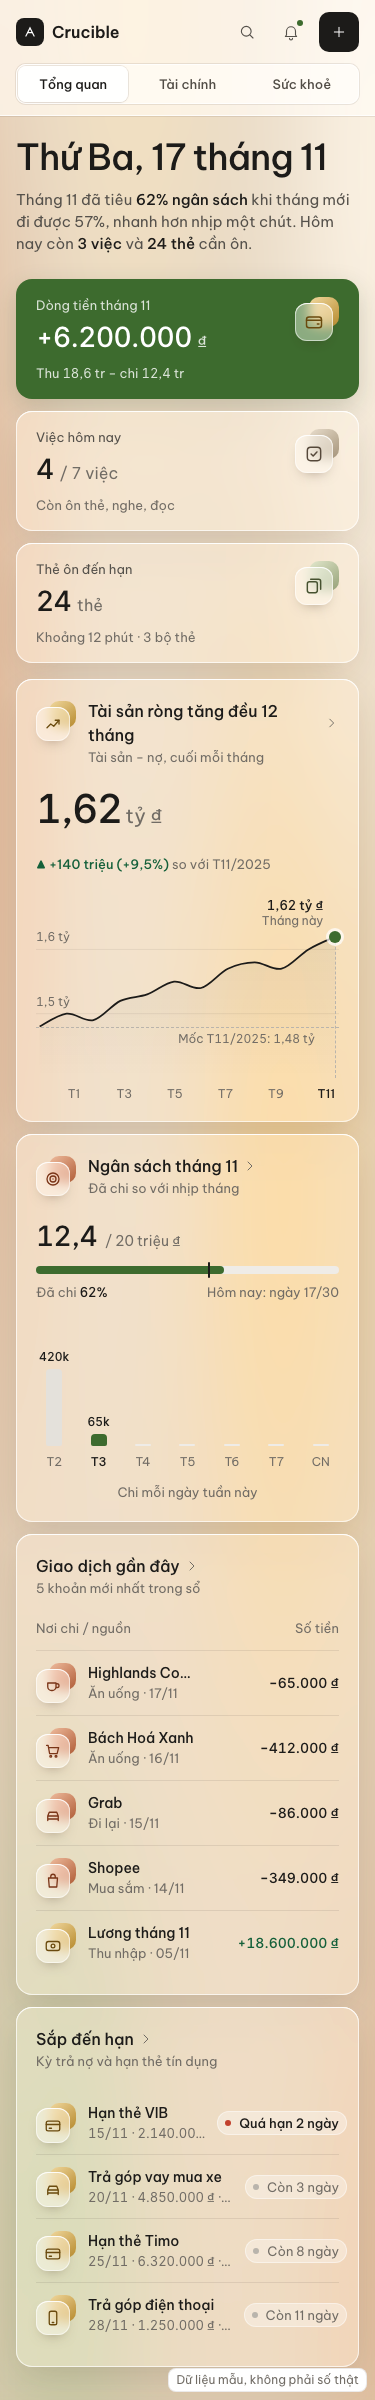
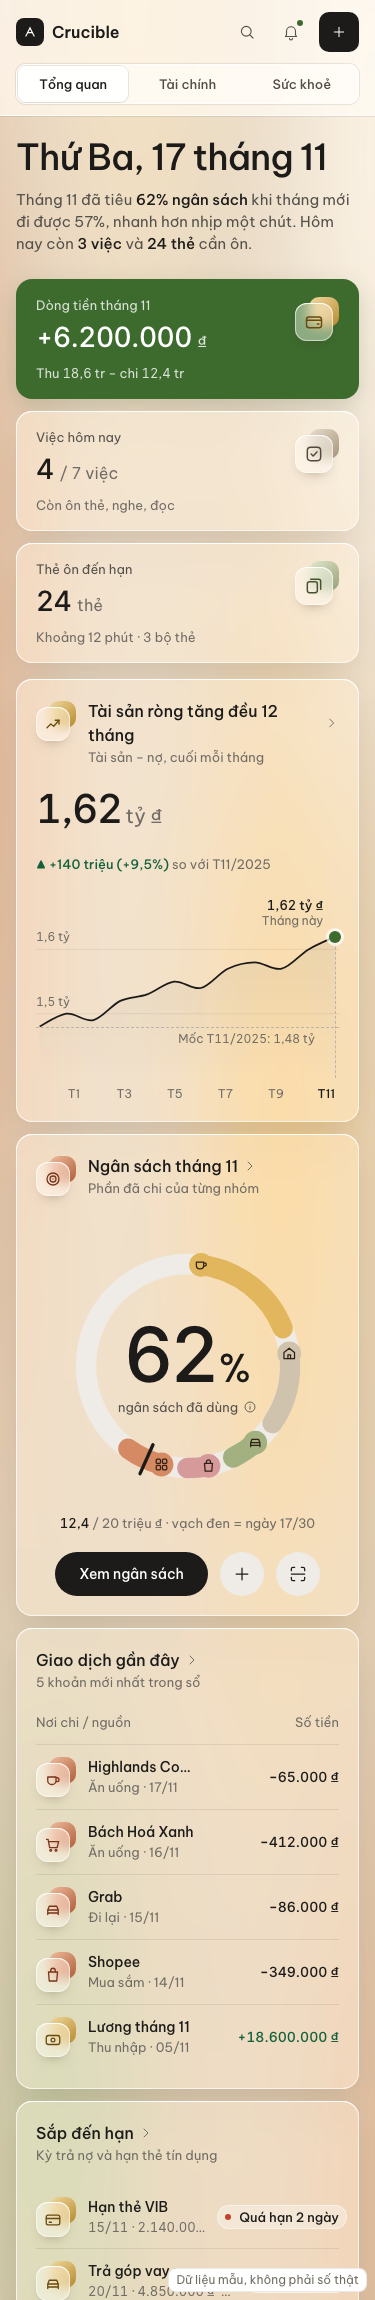
Demo sạch: biểu đồ tròn theo kiểu cung rời (ảnh 27.png) — vòng ngân sách ở Tổng quan, thẻ Chi theo nhóm (Tuần/Tháng/Năm) ở Tài chính, vòng nhỏ đầu bo tròn (dữ liệu mẫu)

Changed region(s): [[0.0293, 0.0, 0.968, 1.0], [0.9093, 0.9878, 0.968, 1.0], [0.88, 0.0, 0.9093, 0.0309]]

diff --git a/1991-new-design/demo/clean/demo.html b/1991-new-design/demo/clean/demo.html
@@ -514,6 +514,35 @@ html[data-theme="dark"]{--vb-fill:rgba(255,255,255,.07);--vb-hatch:rgba(255,255,
 .vbhead .sum{font-size:20px;line-height:28px;font-weight:500;letter-spacing:-.02em;font-family:var(--fig);white-space:nowrap}
 .vbhead .sum .u{font-size:13px;letter-spacing:0;margin-left:4px}
 
+/* Vòng ngân sách (kiểu "cung rời"): 100% vòng = ngân sách tháng; mỗi cung = phần đã chi của một nhóm, đầu bo tròn, có khe;
+   phần chưa chi chỉ còn rãnh nhạt. Màu cung = màu mảng/nhóm (mật ong, đất nung, lá xô thơm, be đá, hồng đất), hạ sáng ở theme tối. */
+:root{--rg-1:#E2B65C;--rg-2:#CFC3AE;--rg-3:#A3B07F;--rg-4:#D79A9A;--rg-5:#D68A63;--rg-6:#9FB3B0;--rg-ink:#2E2117}
+html[data-theme="dark"]{--rg-1:#B8923F;--rg-2:#9E927C;--rg-3:#7E8C5C;--rg-4:#A87272;--rg-5:#B86C48;--rg-6:#6E8582;--rg-ink:#16100B}
+.ringbox{position:relative;width:100%;max-width:272px;margin:12px auto 0;container-type:inline-size;aspect-ratio:1}
+.ringbox svg{display:block;width:100%;height:100%;overflow:visible}
+.ringbox .trk{stroke:var(--bar2)}
+.ringbox .ctr{position:absolute;inset:0;display:flex;flex-direction:column;align-items:center;justify-content:center;text-align:center;pointer-events:none}
+.ringbox .ctr .n{font-family:var(--fig);font-variant-numeric:tabular-nums;font-size:28cqw;line-height:1;font-weight:500;letter-spacing:-.04em;color:var(--ink)}
+.ringbox .ctr .n small{font-size:.5em;letter-spacing:0;margin-left:2px}
+.ringbox .ctr .c{display:flex;align-items:center;gap:5px;margin-top:6px;font-size:13px;line-height:18px;color:var(--ink2)}
+.ringbox .ctr .c svg{width:14px;height:14px;flex:none}
+.ringnote{text-align:center;font-size:13px;line-height:18px;color:var(--muted);margin-top:12px}
+.ringnote b{color:var(--ink);font-weight:500}
+.ringact{display:flex;align-items:center;justify-content:center;gap:12px;margin-top:auto;padding-top:20px}
+.ringact .pill{height:44px;padding:0 24px;border-radius:999px;background:var(--btn);color:var(--btn-ink);font-weight:500;display:inline-flex;align-items:center;white-space:nowrap}
+.ringact .rb{width:44px;height:44px;border-radius:50%;display:inline-flex;align-items:center;justify-content:center;background:var(--bar2);color:var(--ink)}
+.ringact .rb svg{width:20px;height:20px}
+.ringbox.sm{max-width:280px;margin:0 auto}
+.ringbox.sm .ctr .n{font-size:19cqw}
+.ringbox.sm .ctr .n small{font-size:.36em;margin-left:4px;letter-spacing:0}
+.split{display:grid;grid-template-columns:280px minmax(0,1fr);gap:32px;align-items:center;margin-top:auto;margin-bottom:auto;padding-top:16px}
+.glist .gr{display:grid;grid-template-columns:12px minmax(0,1fr) auto 44px;align-items:center;gap:12px;padding:11px 0;border-bottom:1px solid var(--line)}
+.glist .gr:last-child{border-bottom:0}
+.glist .gr i{width:12px;height:12px;border-radius:50%;background:var(--rg-c)}
+.glist .gr .a{font-family:var(--fig);font-variant-numeric:tabular-nums;white-space:nowrap}
+.glist .gr .pc{text-align:right;color:var(--muted);font-family:var(--fig);font-variant-numeric:tabular-nums}
+@media (max-width:760px){.split{grid-template-columns:1fr;gap:20px}.hd.hs .seg{order:3;width:100%}.hd.hs .seg button{flex:1}}
+
 /* So với ngân sách: vòng nhỏ = TIẾN ĐỘ của một đại lượng (đã chi / ngân sách của từng nhóm),
    không phải cơ cấu. Rãnh xám nhạt, phần đạt tô màu; vạch mực trên vòng = nhịp ngày. */
 .bud .brow{display:grid;grid-template-columns:40px minmax(0,1fr) auto;align-items:center;gap:12px;padding:12px 0;border-bottom:1px solid var(--line)}
@@ -615,11 +644,10 @@ html[data-theme="dark"]{--vb-fill:rgba(255,255,255,.07);--vb-hatch:rgba(255,255,
         </a>
 
         <a class="card c4 fillcol" href="#">
-          <div class="hd"><span class="gi spend"><svg data-i="target"></svg></span><div class="grow"><div class="t">Ngân sách tháng 11<svg data-i="chev"></svg></div><div class="s">Đã chi so với nhịp tháng</div></div></div>
-          <div style="display:flex;align-items:baseline;gap:8px"><span class="num" style="font-size:28px;line-height:36px;font-weight:500;letter-spacing:-.02em">12,4</span><span class="u">/ 20 triệu ₫</span></div>
-          <div class="pace" style="margin-top:12px"><div class="fill" style="width:62%"></div><div class="tick" style="left:57%"></div></div>
-          <div class="pace-cap"><span>Đã chi <b class="num">62%</b></span><span>Hôm nay: ngày 17/30</span></div>
-          <div class="vbwrap" id="days"></div>
+          <div class="hd"><span class="gi spend"><svg data-i="target"></svg></span><div class="grow"><div class="t">Ngân sách tháng 11<svg data-i="chev"></svg></div><div class="s">Phần đã chi của từng nhóm</div></div></div>
+          <div class="ringbox" id="budRing"></div>
+          <div class="ringnote"><b class="num">12,4</b> / 20 triệu ₫ · vạch đen = ngày 17/30</div>
+          <div class="ringact"><span class="pill">Xem ngân sách</span><span class="rb" role="img" aria-label="Thêm khoản chi" title="Thêm khoản chi"><svg data-i="plus"></svg></span><span class="rb" role="img" aria-label="Quét hoá đơn" title="Quét hoá đơn"><svg data-i="scan"></svg></span></div>
         </a>
 
         <a class="card c7" href="#">
@@ -671,12 +699,18 @@ html[data-theme="dark"]{--vb-fill:rgba(255,255,255,.07);--vb-hatch:rgba(255,255,
           <div id="sixM" style="margin-top:8px"></div>
         </a>
 
+        <div class="card c7 fillcol">
+          <div class="hd hs"><span class="gi spend"><svg data-i="grid"></svg></span><div class="grow"><div class="t" id="gTitle"></div><div class="s num" id="gSub"></div></div>
+            <div class="seg" role="group" aria-label="Kỳ xem" id="gSeg"><button type="button" data-p="w">Tuần</button><button type="button" data-p="m" class="on" aria-pressed="true">Tháng</button><button type="button" data-p="y">Năm</button></div></div>
+          <div class="split"><div class="ringbox sm" id="grpRing"></div><div class="glist" id="grpList"></div></div>
+        </div>
+
         <a class="card c5 bud" href="#">
           <div class="hd"><span class="gi spend"><svg data-i="target"></svg></span><div class="grow"><div class="t">So với ngân sách: Mua sắm vượt 14%, 2 nhóm quá nhịp<svg data-i="chev"></svg></div><div class="s">Đã chi / ngân sách tháng 11, theo nhóm chi</div></div></div>
           <div id="budget"></div>
         </a>
 
-        <div class="card c7">
+        <div class="card c12">
           <div class="hd"><div class="grow"><div class="t">3 hoá đơn đang chờ duyệt</div><div class="s">Đã quét và lưu nháp, chưa vào sổ</div></div><button class="btn">Duyệt 3 hoá đơn</button></div>
           <div class="list">
             <div class="li"><span class="gi spend"><svg data-i="cart"></svg></span><div class="grow"><div class="p">Co.opmart Xa Lộ Hà Nội</div><div class="s">Quét lúc 08:12 · gợi ý nhóm Ăn uống</div></div><div class="r num">684.000 ₫</div></div>
@@ -751,6 +785,7 @@ const I={
  search:'<circle cx="11" cy="11" r="6.5"/><path d="m20 20-4.2-4.2"/>',
  bell:'<path d="M6 16V11a6 6 0 0 1 12 0v5l1.5 2h-15z"/><path d="M10 20.5a2 2 0 0 0 4 0"/>',
  plus:'<path d="M12 5v14M5 12h14"/>',
+ info:'<circle cx="12" cy="12" r="8.5"/><path d="M12 11v5M12 8h.01"/>',
  moon:'<path d="M19.5 14.5A7.5 7.5 0 0 1 9.5 4.5a7.5 7.5 0 1 0 10 10z"/>',
  sun:'<circle cx="12" cy="12" r="4"/><path d="M12 2.5v2M12 19.5v2M2.5 12h2M19.5 12h2M5.3 5.3l1.4 1.4M17.3 17.3l1.4 1.4M5.3 18.7l1.4-1.4M17.3 6.7l1.4-1.4"/>',
  chev:'<path d="m9 6 6 6-6 6"/>',
@@ -848,10 +883,51 @@ function vbars(el,{data,max,ref,refLabel,unit,h=220,yt=[],noy=false,head}){
   <div class="vx">${data.map(d=>`<span class="${d.k==='acc'?'on':''}">${d.x}${d.sx?`<small>${d.sx}</small>`:''}</span>`).join('')}</div>
  </div></div>`;
 }
-/* Chi mỗi ngày tuần này (Tổng quan): hôm nay T3 = cột nhấn; ngày chưa tới = cột rỗng + "–"; đường = nhịp ngân sách/ngày (20 tr / 30 ngày) */
-vbars(document.getElementById('days'),{noy:true,max:800,ref:667,refLabel:'Nhịp 667k',unit:'k',h:132,
- head:'<div class="vbhead"><span class="cap">Chi mỗi ngày tuần này</span><span class="sum">485<span class="u">k ₫ tuần này</span></span></div>',
- data:[{x:'T2',v:420,lab:'420'},{x:'T3',v:65,lab:'65',k:'acc'},{x:'T4',v:null},{x:'T5',v:null},{x:'T6',v:null},{x:'T7',v:null},{x:'CN',v:null}]});
+/* ===== Vòng cung rời (kiểu 27.png): dùng cho Ngân sách (Tổng quan) và Chi theo nhóm (Tài chính). Dữ liệu mẫu ===== */
+function ring(el,{total,groups,num,unit,cap,pace,label}){
+ const R=90,W=18,CX=120,CAP=W/2/R*180/Math.PI,GAP=3.2;
+ const pt=(a,r)=>{const t=(a-90)*Math.PI/180;return [CX+r*Math.cos(t),CX+r*Math.sin(t)]};
+ let a0=0,arcs='',beads='';
+ groups.forEach(([n,i,v,k])=>{
+  const len=v/total*360,s0=a0+CAP+GAP/2,s1=Math.max(a0+len-CAP-GAP/2,s0+.1);a0+=len;
+  const [x0,y0]=pt(s0,R),[x1,y1]=pt(s1,R);
+  arcs+=`<path d="M${x0.toFixed(2)} ${y0.toFixed(2)}A${R} ${R} 0 ${s1-s0>180?1:0} 1 ${x1.toFixed(2)} ${y1.toFixed(2)}" fill="none" stroke="var(--rg-${k})" stroke-width="${W}" stroke-linecap="round"/>`;
+  const [bx,by]=pt(s0,R);
+  beads+=`<circle cx="${bx.toFixed(2)}" cy="${by.toFixed(2)}" r="${W/2+1.5}" fill="var(--rg-${k})"/><svg x="${(bx-7).toFixed(2)}" y="${(by-7).toFixed(2)}" width="14" height="14" viewBox="0 0 24 24" fill="none" stroke="var(--rg-ink)" stroke-width="1.9" stroke-linecap="round" stroke-linejoin="round">${I[i]}</svg>`;});
+ let tick='';
+ if(pace!=null){const [tx0,ty0]=pt(pace*360,R-W/2-5),[tx1,ty1]=pt(pace*360,R+W/2+5);
+  tick=`<line x1="${tx0.toFixed(2)}" y1="${ty0.toFixed(2)}" x2="${tx1.toFixed(2)}" y2="${ty1.toFixed(2)}" stroke="var(--ink)" stroke-width="3" stroke-linecap="round"/>`;}
+ el.innerHTML=`<svg viewBox="0 0 240 240" role="img" aria-label="${label}"><circle class="trk" cx="${CX}" cy="${CX}" r="${R}" fill="none" stroke-width="${W}"/>${arcs}${beads}${tick}</svg>
+  <div class="ctr"><div class="n">${num}${unit?`<small>${unit}</small>`:''}</div><div class="c">${cap} ${ic('info')}</div></div>`;
+}
+(function(){ /* Tổng quan: 100% vòng = ngân sách 20 tr; cung = đã chi của từng nhóm (khớp "So với ngân sách") */
+ const g=[['Ăn uống','cup',4200000,1],['Nhà cửa','home',3100000,2],['Đi lại','car',1650000,3],['Mua sắm','bag',1480000,4],['Khác','grid',1970000,5]];
+ const pct=Math.round(g.reduce((x,y)=>x+y[2],0)/20e6*100);
+ ring(document.getElementById('budRing'),{total:20e6,groups:g,num:pct,unit:'%',cap:'ngân sách đã dùng',pace:17/30,
+  label:`Đã dùng ${pct}% ngân sách 20 triệu: Ăn uống 4,2 triệu, Nhà cửa 3,1 triệu, Đi lại 1,65 triệu, Mua sắm 1,48 triệu, Khác 1,97 triệu`});
+})();
+(function(){ /* Tài chính: Chi theo nhóm, Tuần / Tháng / Năm. Tổng kỳ Tháng = 12,4 tr khớp thẻ Chi tiêu. Khác luôn xếp cuối */
+ const ICON={'Ăn uống':'cup','Nhà cửa':'home','Đi lại':'car','Mua sắm':'bag','Sức khoẻ':'heart','Điện nước':'bolt','Khác':'grid'};
+ const COL={'Ăn uống':1,'Nhà cửa':2,'Đi lại':3,'Mua sắm':4,'Khác':5,'Sức khoẻ':6,'Điện nước':2};
+ const P={
+  w:{t:'Ăn uống',cap:'tổng chi 7 ngày qua',sub:'11/11 – 17/11',d:[['Ăn uống',1240000],['Mua sắm',610000],['Đi lại',520000],['Sức khoẻ',236000],['Điện nước',190000],['Khác',304000]]},
+  m:{t:'Ăn uống',cap:'tổng chi tháng 11',sub:'1/11 – 17/11',d:[['Ăn uống',4200000],['Nhà cửa',3100000],['Đi lại',1650000],['Mua sắm',1480000],['Khác',1970000]]},
+  y:{t:'Nhà cửa',cap:'tổng chi năm 2026',sub:'1/1 – 17/11',d:[['Nhà cửa',46800000],['Ăn uống',41200000],['Đi lại',17500000],['Mua sắm',15900000],['Sức khoẻ',9600000],['Khác',17600000]]}};
+ const per={w:'chi 7 ngày qua',m:'chi tháng 11',y:'chi năm 2026'};
+ const f1=n=>(n/1e6).toLocaleString('vi-VN',{minimumFractionDigits:1,maximumFractionDigits:1});
+ function draw(k){
+  const d=P[k], tot=d.d.reduce((x,y)=>x+y[1],0), top=d.d.filter(x=>x[0]!=='Khác').sort((a,b)=>b[1]-a[1]), rows=[...top,...d.d.filter(x=>x[0]==='Khác')];
+  const lead=top[0], lp=Math.round(lead[1]/tot*100);
+  document.getElementById('gTitle').innerHTML=`${lead[0]} chiếm ${lp}% ${per[k]}`;
+  document.getElementById('gSub').textContent=`${d.sub} · tổng ${f1(tot)} triệu ₫`;
+  ring(document.getElementById('grpRing'),{total:tot,groups:rows.map(([n,v])=>[n,ICON[n],v,COL[n]]),num:f1(tot).replace('.',','),unit:'tr ₫',cap:d.cap,
+   label:`${d.cap}: ${f1(tot)} triệu đồng. `+rows.map(([n,v])=>`${n} ${Math.round(v/tot*100)}%`).join(', ')});
+  document.getElementById('grpList').innerHTML=rows.map(([n,v])=>`<div class="gr" style="--rg-c:var(--rg-${COL[n]})"><i></i><span>${n}</span><span class="a">${vnd(v)} ₫</span><span class="pc">${Math.round(v/tot*100)}%</span></div>`).join('');
+  document.querySelectorAll('#gSeg button').forEach(b=>{const on=b.dataset.p===k;b.classList.toggle('on',on);b.setAttribute('aria-pressed',on)});
+ }
+ document.querySelectorAll('#gSeg button').forEach(b=>b.onclick=()=>draw(b.dataset.p));
+ draw('m');
+})();
 vbars(document.getElementById('sixM'),{max:20,ref:14.6,refLabel:'TB 14,6 tr',unit:'tr',h:230,yt:[5,10,20],data:[
  {x:'T6',v:14.1,lab:'14,1'},{x:'T7',v:15.8,lab:'15,8'},{x:'T8',v:13.2,lab:'13,2'},
  {x:'T9',v:16.4,lab:'16,4',k:'acc'},{x:'T10',v:13.5,lab:'13,5'},{x:'T11',sx:'tới 17/11',v:12.4,lab:'12,4',k:'part'}]});
@@ -862,17 +938,17 @@ vbars(document.getElementById('weekBars'),{max:220,ref:150,refLabel:'Mốc 150',
 /* ===== So với ngân sách: vòng tiến độ từng nhóm (dữ liệu mẫu theo bảng Budget: categoryGroup, amount) =====
    Dưới nhịp ngày = màu nhấn · vượt nhịp = cảnh báo · vượt 100% = --bad, vòng đầy + "Vượt n%". Vạch mực = nhịp ngày 17/30. */
 (function(){
- const PACE=17/30, C=2*Math.PI*13;
+ const PACE=17/30, C=2*Math.PI*13, SW=5;
  const fm=n=>(n/1e6).toLocaleString('vi-VN',{minimumFractionDigits:1,maximumFractionDigits:2});
  const r=[['Ăn uống','cup',4200000,5000000],['Nhà cửa','home',3100000,6000000],['Đi lại','car',1650000,2400000],['Mua sắm','bag',1480000,1300000],['Khác','grid',1970000,5300000]];
  document.getElementById('budget').innerHTML=r.map(([n,i,sp,bd])=>{
   const p=sp/bd, pc=Math.round(p*100);
   const cls=p>1?'x':(p>PACE?'w':''), col=p>1?'var(--bad)':(p>PACE?'var(--warn)':'var(--acc)');
   const st=p>1?`Vượt ${pc-100}%`:(p>PACE?'Quá nhịp':'Trong nhịp');
-  const d=Math.min(p,1)*C;
+  const full=p>=1, d=full?C:Math.max(p*C-SW,.1), off=full?0:-SW/2;
   return `<div class="brow"><span class="gi spend">${ic(i)}</span><div><div class="nm">${n}</div><div class="am">${fm(sp)} / ${fm(bd)} tr ₫</div></div>
-  <div class="rg"><svg viewBox="0 0 32 32" role="img" aria-label="${n}: ${pc}% ngân sách"><circle class="trk" cx="16" cy="16" r="13" fill="none" stroke-width="4"/>
-   <circle cx="16" cy="16" r="13" fill="none" stroke="${col}" stroke-width="4" stroke-linecap="${p>=1?'butt':'round'}" stroke-dasharray="${d} ${C}" transform="rotate(-90 16 16)"/>
+  <div class="rg"><svg viewBox="0 0 32 32" role="img" aria-label="${n}: ${pc}% ngân sách"><circle class="trk" cx="16" cy="16" r="13" fill="none" stroke-width="5"/>
+   <circle cx="16" cy="16" r="13" fill="none" stroke="${col}" stroke-width="5" stroke-linecap="round" stroke-dasharray="${d} ${C}" stroke-dashoffset="${off}" transform="rotate(-90 16 16)"/>
    <line x1="16" y1="0.5" x2="16" y2="7.5" stroke="var(--ink)" stroke-width="1.75" transform="rotate(${PACE*360} 16 16)"/></svg>
    <div><span class="pc">${pc}%</span><span class="st ${cls}"><i></i>${st}</span></div></div></div>`;}).join('')
   +`<div class="note" style="margin-top:4px">Vạch đen trên vòng là nhịp ngày 17/30. “Khác” gộp 6 nhóm nhỏ. Dữ liệu mẫu.</div>`;
